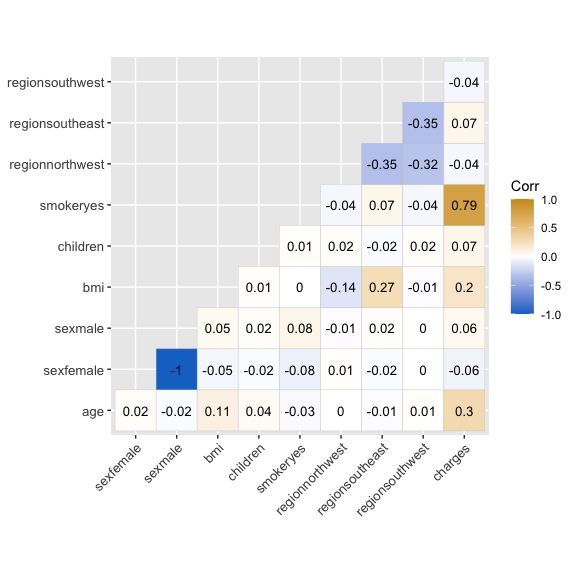
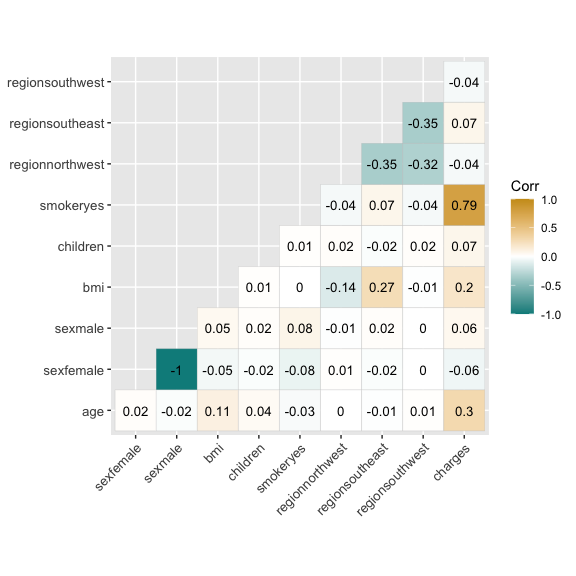
updated

Changed region(s): [[0.625, 0.1562, 0.7812, 0.3438], [0.25, 0.5938, 0.3438, 0.6875], [0.875, 0.4688, 0.9375, 0.5625]]

diff --git a/_sass/variables.scss b/_sass/variables.scss
@@ -3,12 +3,12 @@ $large-breakpoint: 64em !default;
 $medium-breakpoint: 42em !default;
 
 // Headers
-$header-heading-color: #13358c !default;
+$header-heading-color: #005050 !default;
 $header-bg-color: #dbbe76 !default;
 $header-bg-color-secondary: #c4941c !default;
 
 // Text
-$section-headings-color: #13358c !default;
+$section-headings-color: #006a6a !default;
 $body-text-color: #606c71 !default;
 $body-link-color: #1e6bb8 !default;
 $blockquote-text-color: #819198 !default;
